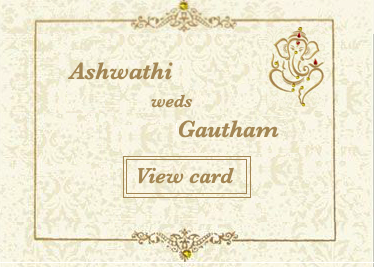
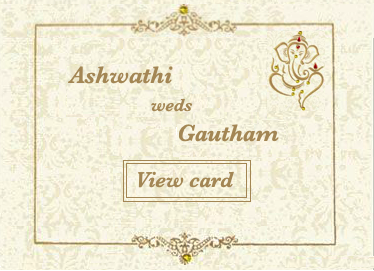
Adding mobile and desktop specific changes, cleaning up images.

diff --git a/index.html b/index.html
@@ -49,25 +49,38 @@
 			</div>
 		</div>
 	</div>
-	<audio autoplay loop id="backgroundMusic">
+	<audio id="backgroundMusic">
+		<source src="assets/audio/bgm1.mp3" type="audio/mpeg">
+	</audio>
+	<audio id="backgroundMusicMobile">
 		<source src="assets/audio/bgm1.mp3" type="audio/mpeg">
 	</audio>
 </body>
 <script>
 	let audioPlaying = false;
 	document.addEventListener("DOMContentLoaded", () => {
-		document.getElementById('overlayClicker').addEventListener('click', playMusic);
+		if(/Android|webOS|iPhone|iPad|iPod|BlackBerry|IEMobile|Opera Mini/i.test(navigator.userAgent)){
+			document.querySelector('.card').addEventListener('click', playMusic);
+		} else {
+			document.getElementById('overlayClicker').addEventListener('click', playMusic);
+		}		
 	});
 	function playMusic() {
 		if(!audioPlaying) {
 			console.log("Trying to play now");
 			audioPlaying = true;
-			document.getElementById('backgroundMusic').play();
-			document.getElementById('overlayClicker').style.display = 'none';
-			document.getElementById('content').style.visibility = 'visible';
+			if(/Android|webOS|iPhone|iPad|iPod|BlackBerry|IEMobile|Opera Mini/i.test(navigator.userAgent)){
+				document.getElementById('backgroundMusicMobile').play();
+				document.getElementById('content').style.visibility = 'visible';
+			}else{
+				document.getElementById('backgroundMusic').play();
+				document.getElementById('overlayClicker').style.display = 'none';
+				document.getElementById('content').style.visibility = 'visible';
+			}
 		} else {
 			console.log("Deregistering event.");
 			document.getElementById('overlayClicker').removeEventListener('click', playMusic);
+			document.querySelector('.card').removeEventListener('click', playMusic);
 		}
 	}
 </script>

diff --git a/assets/css/style_new_ganesh.css b/assets/css/style_new_ganesh.css
@@ -21,7 +21,7 @@ body {
   transition: .7s;
   box-shadow: 0 0 10px rgba(0, 0, 0, 0.5);
   width: 600px;
-  height: 500px;
+  height: 515px;
   position: absolute;
   top: 50%;
   left: 50%;
@@ -104,7 +104,7 @@ background-repeat: no-repeat;
 	/*color: #CD853F;*/
 	height: 100%;
 	padding: 10px;
-	padding-top: 85px;
+	padding-top: 86px;
         visibility: hidden;
 }
 
@@ -127,13 +127,14 @@ background-repeat: no-repeat;
 
 .numberFont {
 	font-family: 'Niconne', serif;
-	font-size: 19px;
+	font-size: 21px;
 }
 
 #overlayClicker {
+        visibility: visible;
         background-image: url(../images/ganesh_top_clickable.png);
-        width: 660px;
-        height: 500px;
+        width: 680px;
+        height: 530px;
         position: absolute;
         cursor: pointer;
         border: 6px solid #996515;
@@ -145,4 +146,10 @@ background-repeat: no-repeat;
           background-blend-mode: exclusion;
         background-size: 100% 100%;
         background-repeat: no-repeat;
+  }
+
+@media only screen and (max-width:1024px) {
+  #overlayClicker {
+          visibility: hidden;
+  }
 }
